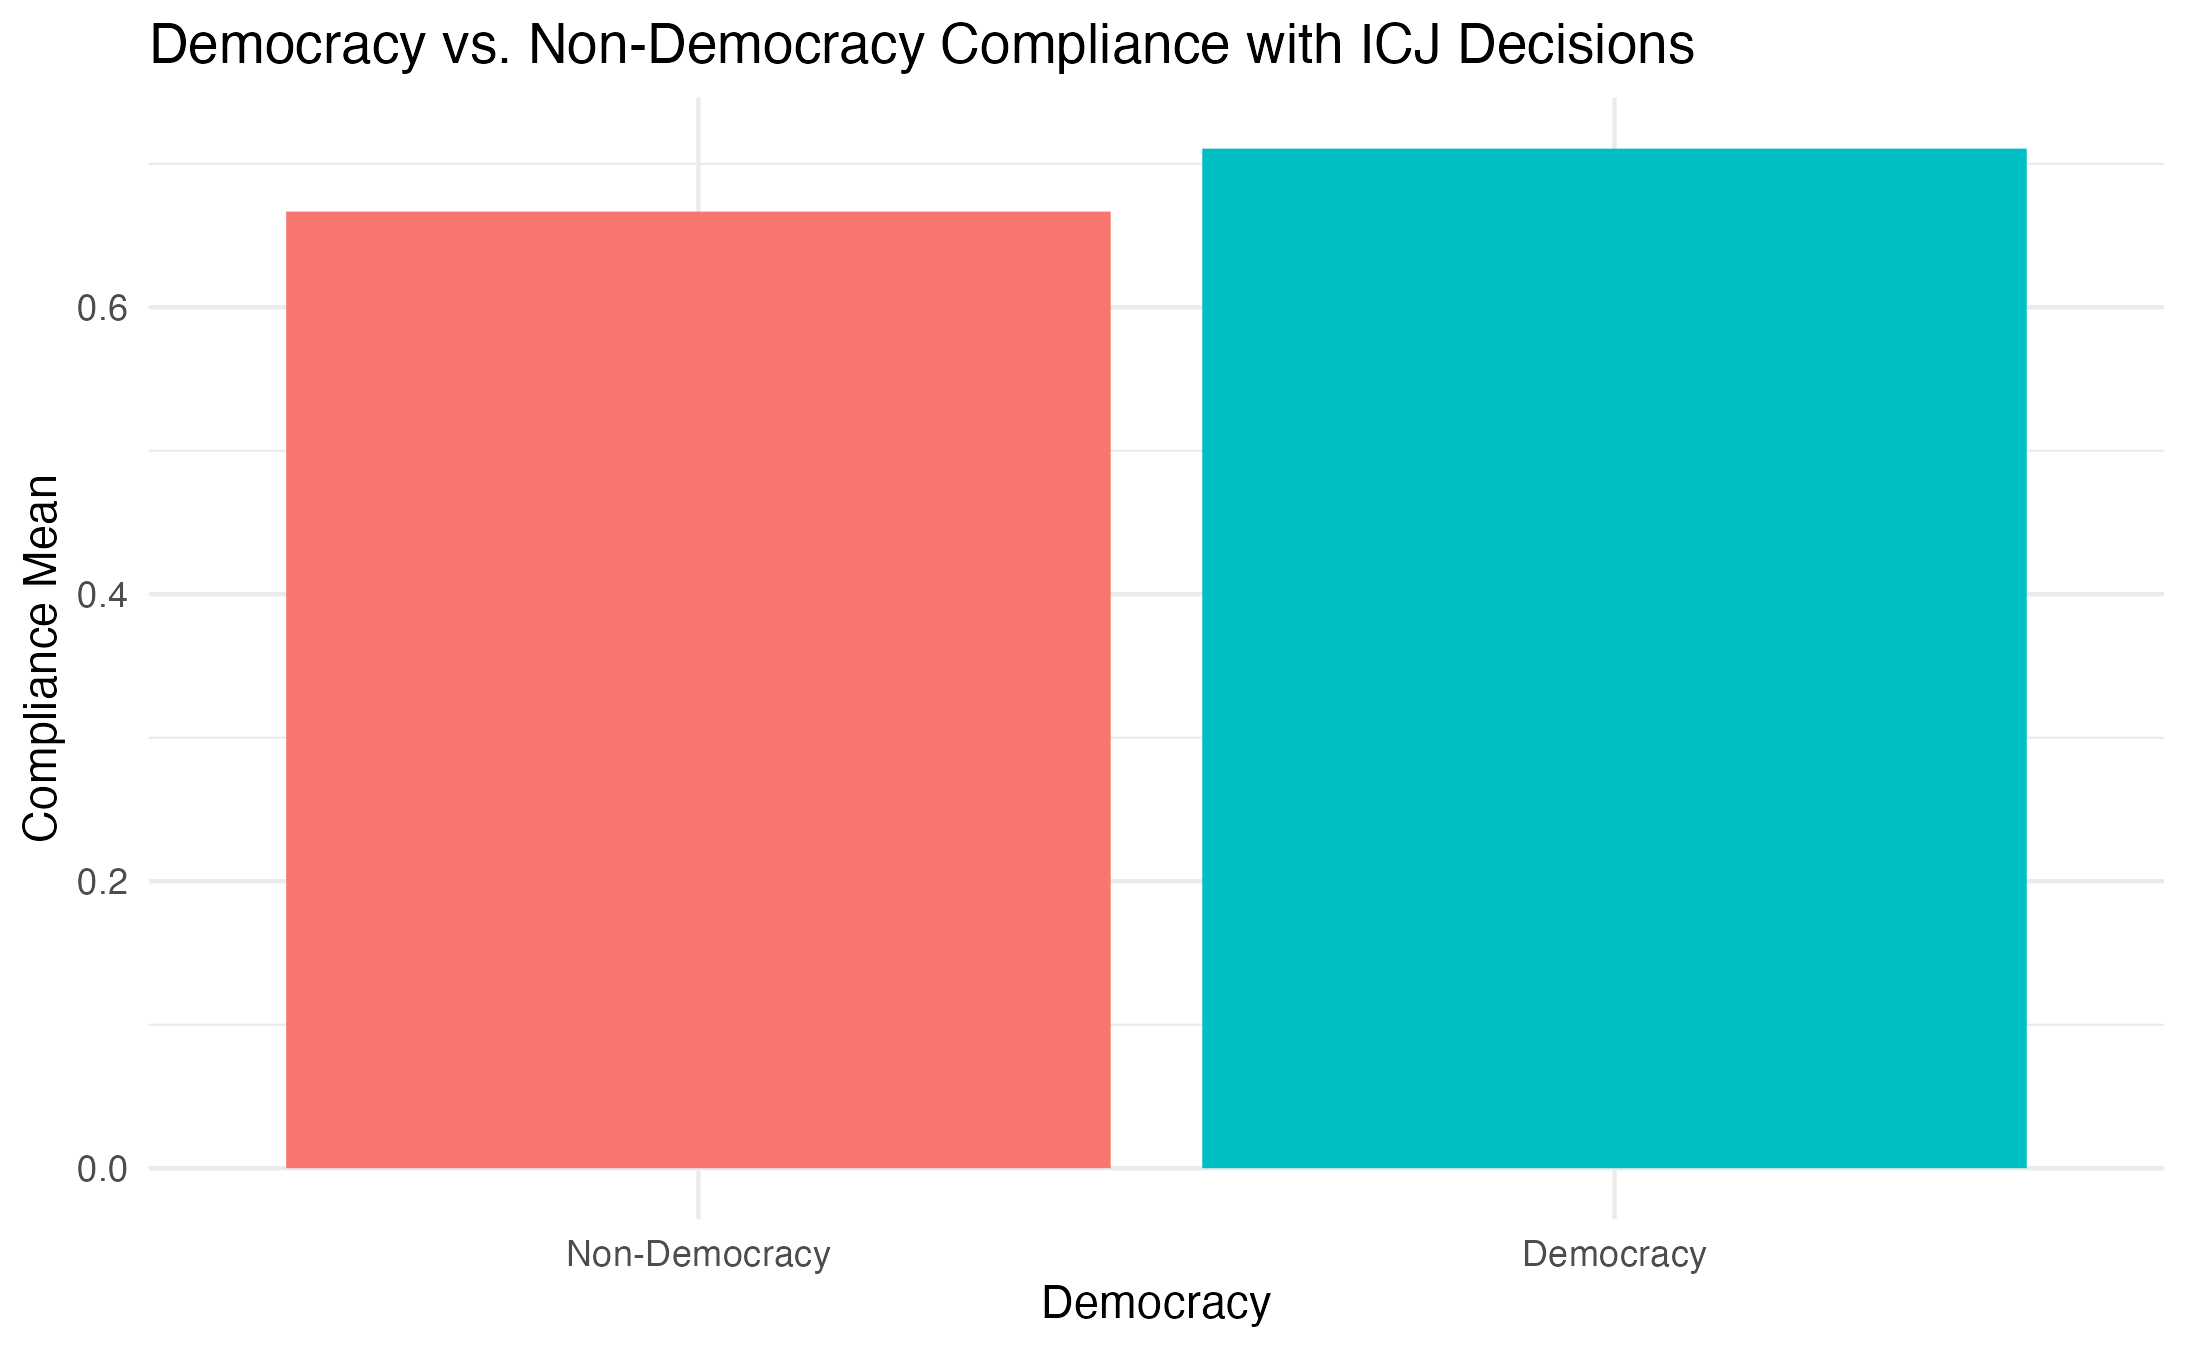
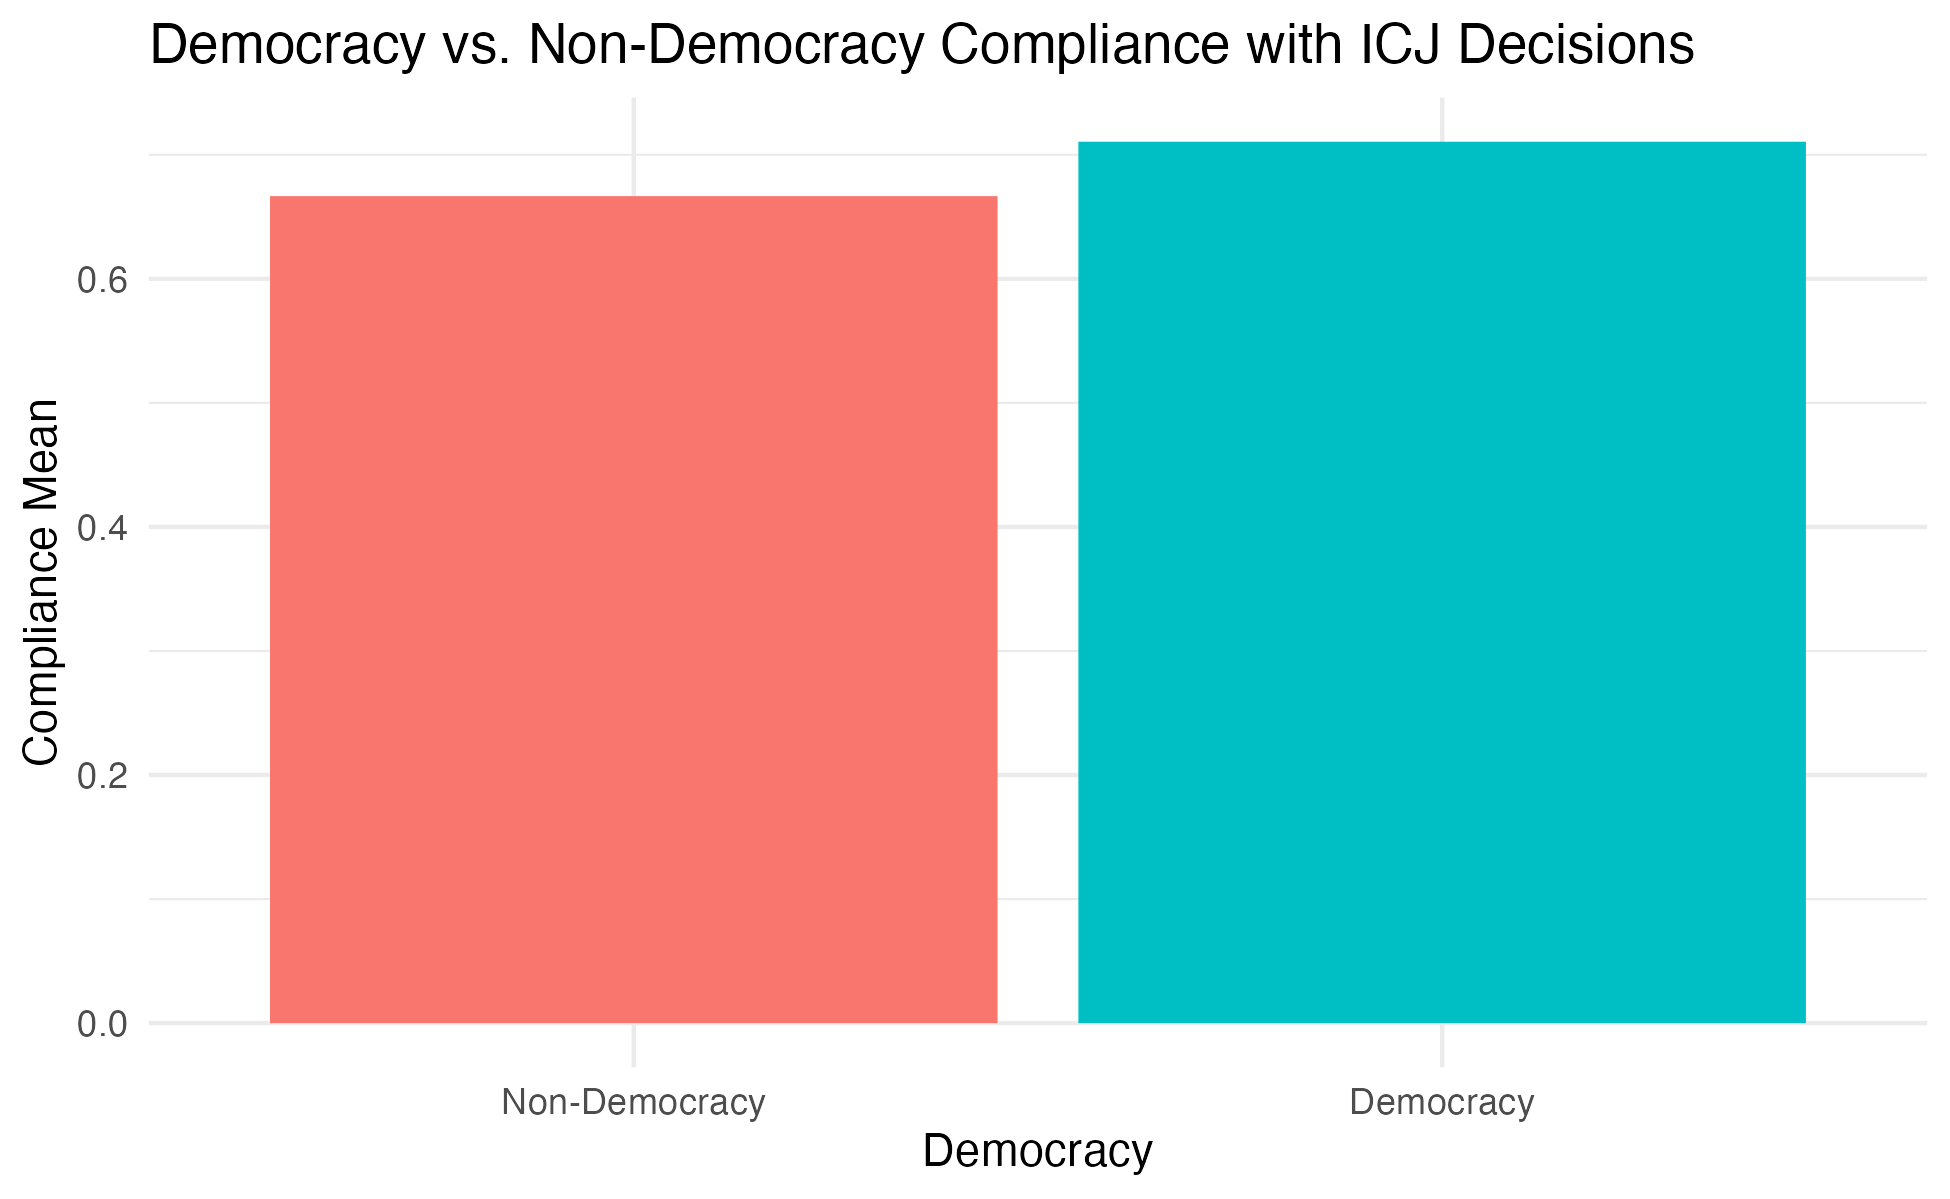
data visualization pt.3

diff --git a/index.html b/index.html
@@ -115,7 +115,7 @@ code span.wa { color: #5e5e5e; font-style: italic; } /* Warning */
   <!--/radix_placeholder_rmarkdown_metadata-->
   
   <script type="text/json" id="radix-resource-manifest">
-  {"type":"character","attributes":{},"value":["icjcompliance.csv","icjcompliance2.csv","icjcompliance3.csv","icjcompliance3.numbers","icjcompliance4.csv","icjcomplianceclean.numbers","index_files/anchor-4.2.2/anchor.min.js","index_files/bowser-1.9.3/bowser.min.js","index_files/distill-2.2.21/template.v2.js","index_files/figure-html5/unnamed-chunk-1-1.png","index_files/header-attrs-2.16/header-attrs.js","index_files/header-attrs-2.17/header-attrs.js","index_files/jquery-3.6.0/jquery-3.6.0.js","index_files/jquery-3.6.0/jquery-3.6.0.min.js","index_files/jquery-3.6.0/jquery-3.6.0.min.map","index_files/popper-2.6.0/popper.min.js","index_files/tippy-6.2.7/tippy-bundle.umd.min.js","index_files/tippy-6.2.7/tippy-light-border.css","index_files/tippy-6.2.7/tippy.css","index_files/tippy-6.2.7/tippy.umd.min.js","index_files/webcomponents-2.0.0/webcomponents.js"]}
+  {"type":"character","attributes":{},"value":["comp_mean_plot.png","icjcompliance.csv","icjcompliance2.csv","icjcompliance3.csv","icjcompliance3.numbers","icjcompliance4.csv","icjcomplianceclean.numbers","index_files/anchor-4.2.2/anchor.min.js","index_files/bowser-1.9.3/bowser.min.js","index_files/distill-2.2.21/template.v2.js","index_files/figure-html5/unnamed-chunk-1-1.png","index_files/header-attrs-2.16/header-attrs.js","index_files/header-attrs-2.17/header-attrs.js","index_files/jquery-3.6.0/jquery-3.6.0.js","index_files/jquery-3.6.0/jquery-3.6.0.min.js","index_files/jquery-3.6.0/jquery-3.6.0.min.map","index_files/popper-2.6.0/popper.min.js","index_files/tippy-6.2.7/tippy-bundle.umd.min.js","index_files/tippy-6.2.7/tippy-light-border.css","index_files/tippy-6.2.7/tippy.css","index_files/tippy-6.2.7/tippy.umd.min.js","index_files/webcomponents-2.0.0/webcomponents.js"]}
   </script>
   <!--radix_placeholder_navigation_in_header-->
   <!--/radix_placeholder_navigation_in_header-->
@@ -1569,8 +1569,12 @@ code span.wa { color: #5e5e5e; font-style: italic; } /* Warning */
 <span>  <span class='fu'><a href='https://ggplot2.tidyverse.org/reference/theme.html'>theme</a></span><span class='op'>(</span>legend.position <span class='op'>=</span> <span class='st'>"none"</span><span class='op'>)</span></span>
 <span><span class='va'>comp_mean_plot</span></span></code></pre>
 </div>
-<p><img src="index_files/figure-html5/unnamed-chunk-1-1.png" width="624" /></p>
+<img src="index_files/figure-html5/unnamed-chunk-1-1.png" width="624" />
+<div class="sourceCode">
+<pre class="sourceCode r"><code class="sourceCode r"><span><span class='fu'><a href='https://ggplot2.tidyverse.org/reference/ggsave.html'>ggsave</a></span><span class='op'>(</span><span class='st'>"comp_mean_plot.png"</span><span class='op'>)</span></span></code></pre>
 </div>
+</div>
+<p><img src="comp_mean_plot.png" /></p>
 <h2 id="results-and-analysis">Results and Analysis</h2>
 <div class="layout-chunk" data-layout="l-body">
 <div class="sourceCode">
@@ -1608,20 +1612,10 @@ Coefficients:
 </tr>
 </tbody>
 </table>
-<div class="sourceCode">
-<pre class="sourceCode r"><code class="sourceCode r"><span><span class='va'>fit</span></span></code></pre>
 </div>
-<pre><code>
-Call:
-lm(formula = comp_mean ~ democracy, data = comp_mean_dem)
-
-Coefficients:
-(Intercept)    democracy  
-    0.66667      0.04386  </code></pre>
-</div>
-<p>On average, democracies tend to comply more with International Court of Justice decisions. Non-democracies have a 66.7% likelihood of complying with decisions, while democracies have a 71.1% likelihood. Therefore, if a state is democratic, it is approximately 4% more likely to comply than non-democratic states.</p>
+<p>On average, democracies tend to comply more with International Court of Justice (ICJ) decisions. Non-democracies have a 66.7% likelihood of complying, while democracies have a 71.1% likelihood. Therefore, if a state is democratic, it is approximately 4% more likely to comply with ICJ rulings than non-democratic states.</p>
 <p>Sources: - <a href="https://www.systemicpeace.org/polity/polity4x.htm" class="uri">https://www.systemicpeace.org/polity/polity4x.htm</a> <a href="http://www.systemicpeace.org/inscrdata.html" class="uri">http://www.systemicpeace.org/inscrdata.html</a> - <a href="https://www.ifo.de/DocDL/dice-report-2019-3-hainz_moffet_rhode-october_0.pdf" class="uri">https://www.ifo.de/DocDL/dice-report-2019-3-hainz_moffet_rhode-october_0.pdf</a></p>
-<div class="sourceCode" id="cb4"><pre class="sourceCode r distill-force-highlighting-css"><code class="sourceCode r"></code></pre></div>
+<div class="sourceCode" id="cb3"><pre class="sourceCode r distill-force-highlighting-css"><code class="sourceCode r"></code></pre></div>
 <!--radix_placeholder_article_footer-->
 <!--/radix_placeholder_article_footer-->
 </div>
